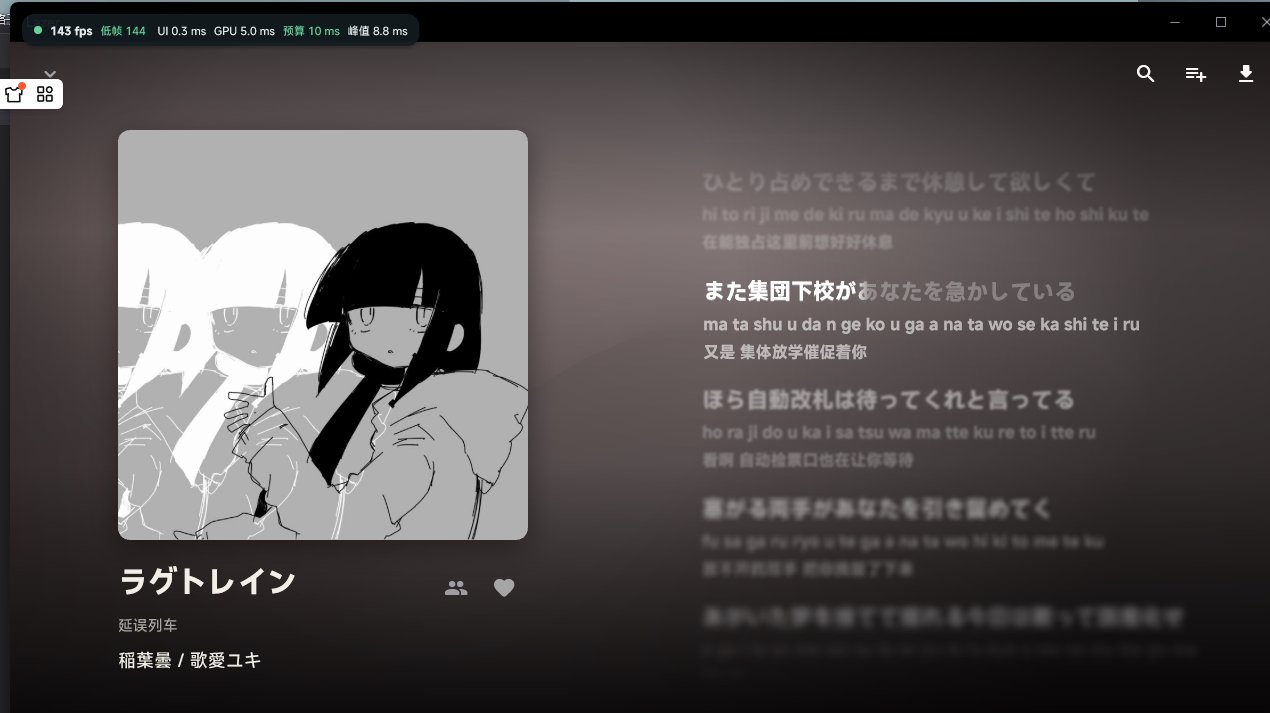
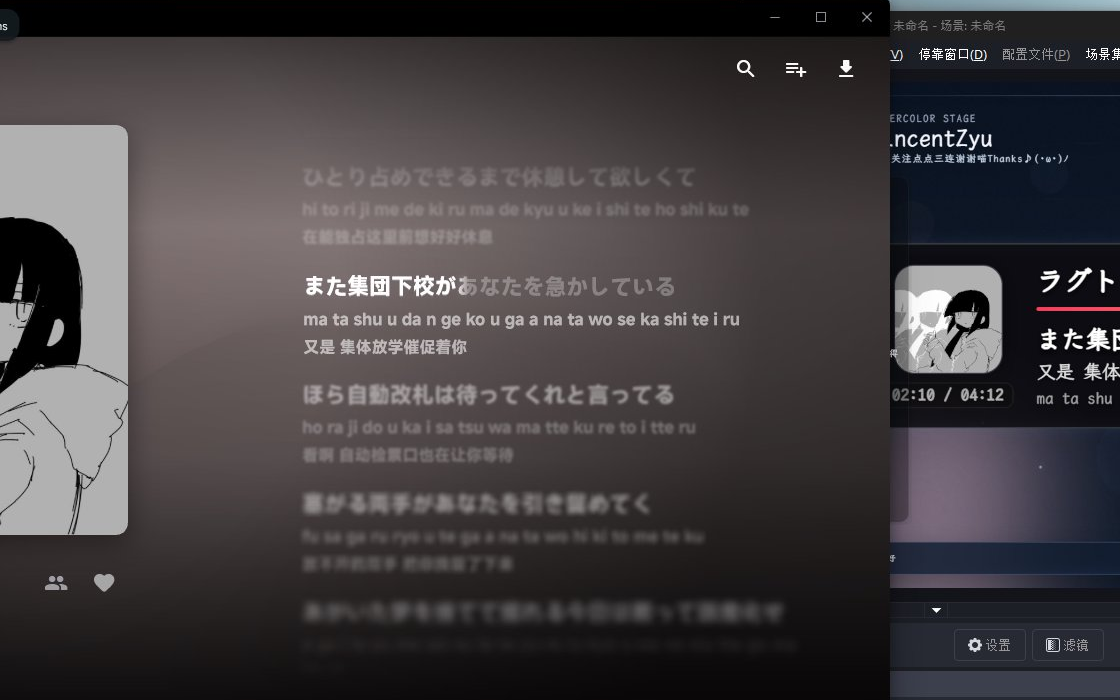
docs(profile): update splayer overlay preview to animated gif and update lazer bridge preview

diff --git a/profile/README.md b/profile/README.md
@@ -27,7 +27,7 @@
 
 > ↓ [SPlayer Status HTML Overlay](https://github.com/VincentZyuLive/splayer-status-html-overlay-for-obs)：封面、歌词、进度条与播放控制浮层
 
-![SPlayer Status HTML Overlay preview](assets/splayer-status-html-overlay.png)
+![SPlayer Status HTML Overlay preview](assets/splayer-status-html-overlay.gif)
 
 > ↓ [go-musicfox fork](https://github.com/VincentZyuLive/go-musicfox-vincentzyu-fork)：SPlayer-Next 兼容接口与 OBS 播放状态浮层
 
